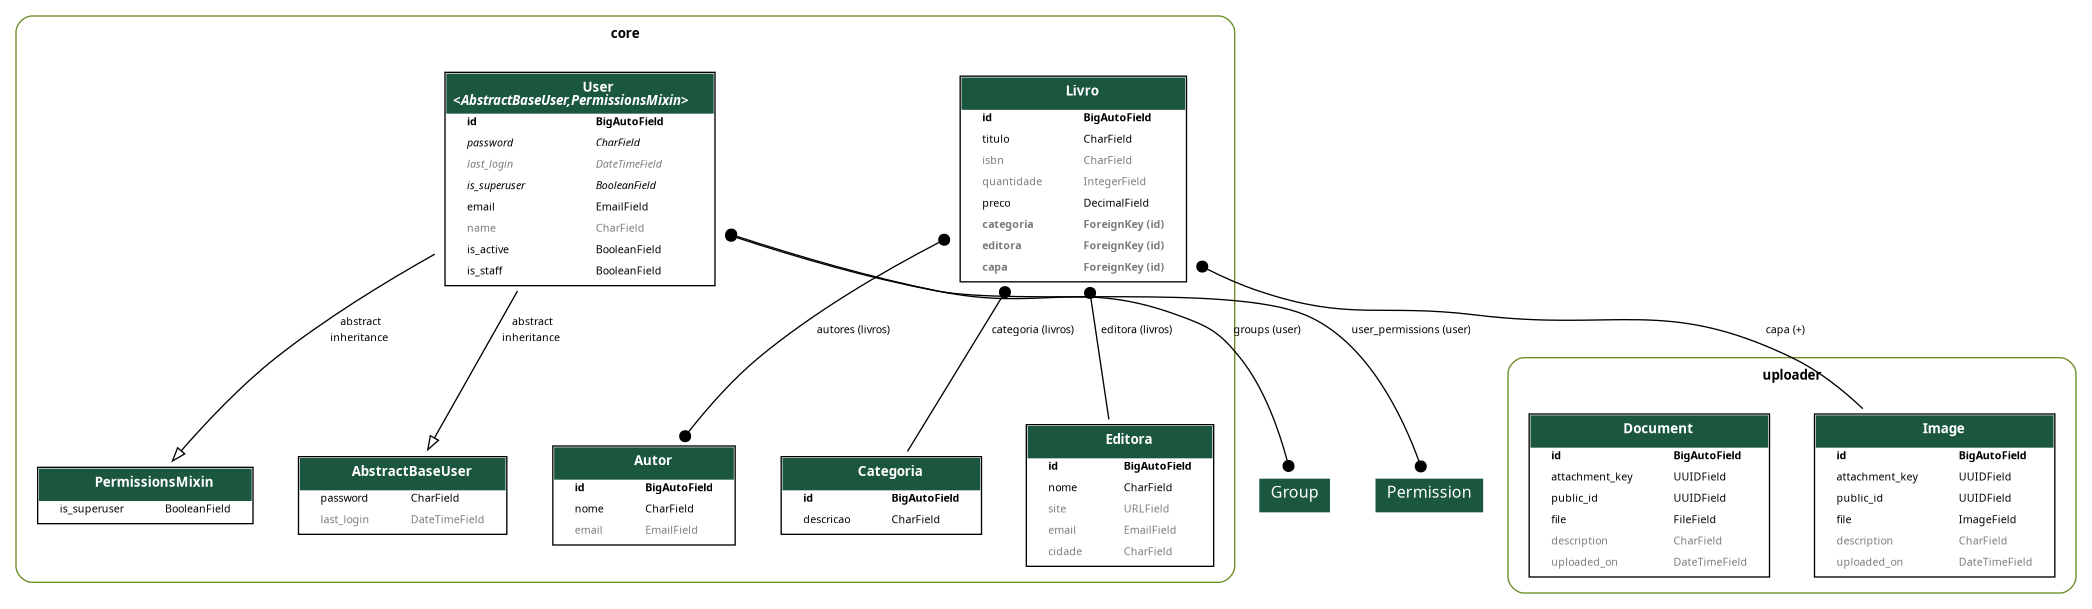
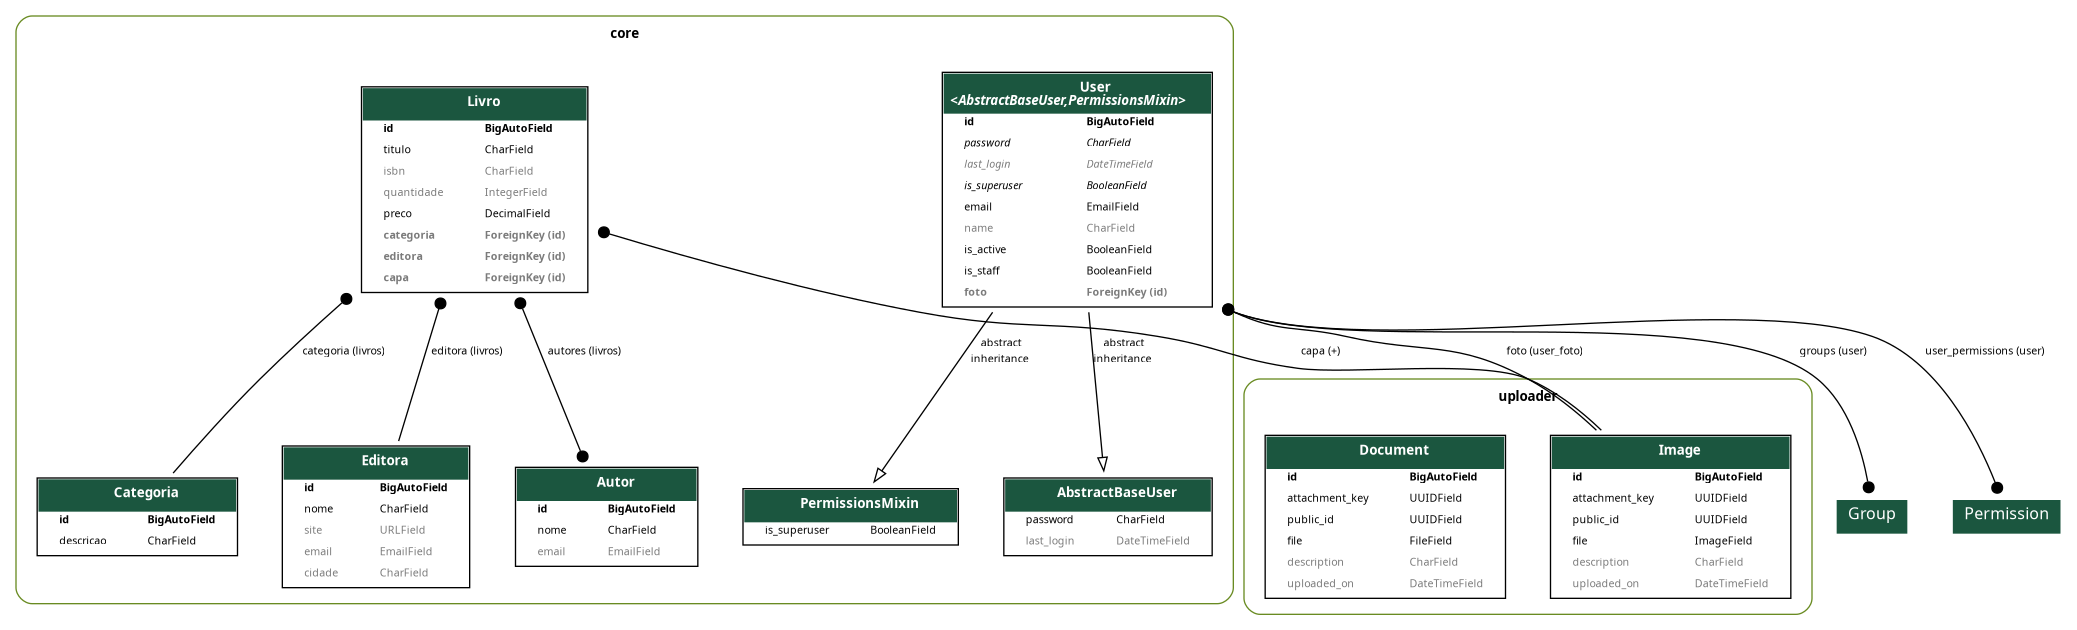
feat: inclusão da foto de perfil no usuário

Changed region(s): [[0.0, 0.0936, 1.0, 0.9984], [0.0308, 0.0, 0.5855, 0.0624], [0.3698, 0.5304, 0.4314, 0.5616]]

diff --git a/core/serializers/user.py b/core/serializers/user.py
@@ -1,10 +1,21 @@
 from rest_framework import serializers
-from rest_framework.serializers import ModelSerializer
+from rest_framework.serializers import ModelSerializer, SlugRelatedField
 
 from core.models import User
+from uploader.models import Image
+from uploader.serializers import ImageSerializer
 
 
 class UserSerializer(ModelSerializer):
+    foto_attachment_key = SlugRelatedField(
+        source='foto',
+        queryset=Image.objects.all(),
+        slug_field='attachment_key',
+        required=False,
+        write_only=True,
+    )
+    foto = ImageSerializer(required=False, read_only=True)
+
     class Meta:
         model = User
         fields = ['id', 'email', 'name', 'is_active', 'is_staff', 'is_superuser', 'last_login', 'groups']

diff --git a/core/models/user.py b/core/models/user.py
@@ -10,6 +10,8 @@ from django.contrib.auth.models import (
 from django.db import models
 from django.utils.translation import gettext_lazy as _
 
+from uploader.models import Image
+
 
 class UserManager(BaseUserManager):
     """Manager for users."""
@@ -55,6 +57,15 @@ class User(AbstractBaseUser, PermissionsMixin):
 
     USERNAME_FIELD = 'email'
     REQUIRED_FIELDS = []
+
+    foto = models.ForeignKey(
+        Image,
+        related_name='user_foto',
+        on_delete=models.SET_NULL,
+        null=True,
+        blank=True,
+        default=None,
+    )
 
     class Meta:
         """Meta options for the model."""

diff --git a/core/migrations/0018_user_foto.py b/core/migrations/0018_user_foto.py
@@ -1,0 +1,20 @@
+# Generated by Django 5.2.13 on 2026-04-26 19:43
+
+import django.db.models.deletion
+from django.db import migrations, models
+
+
+class Migration(migrations.Migration):
+
+    dependencies = [
+        ('core', '0017_remove_user_foto'),
+        ('uploader', '0001_initial'),
+    ]
+
+    operations = [
+        migrations.AddField(
+            model_name='user',
+            name='foto',
+            field=models.ForeignKey(blank=True, default=None, null=True, on_delete=django.db.models.deletion.SET_NULL, related_name='user_foto', to='uploader.image'),
+        ),
+    ]

diff --git a/core/admin.py b/core/admin.py
@@ -17,7 +17,7 @@ class UserAdmin(BaseUserAdmin):
     list_display = ['email', 'name']
     fieldsets = (
         (None, {'fields': ('email', 'password')}),
-        (_('Personal Info'), {'fields': ('name',)}),
+        (_('Personal Info'), {'fields': ('name', 'foto')}),
         (
             _('Permissions'),
             {
